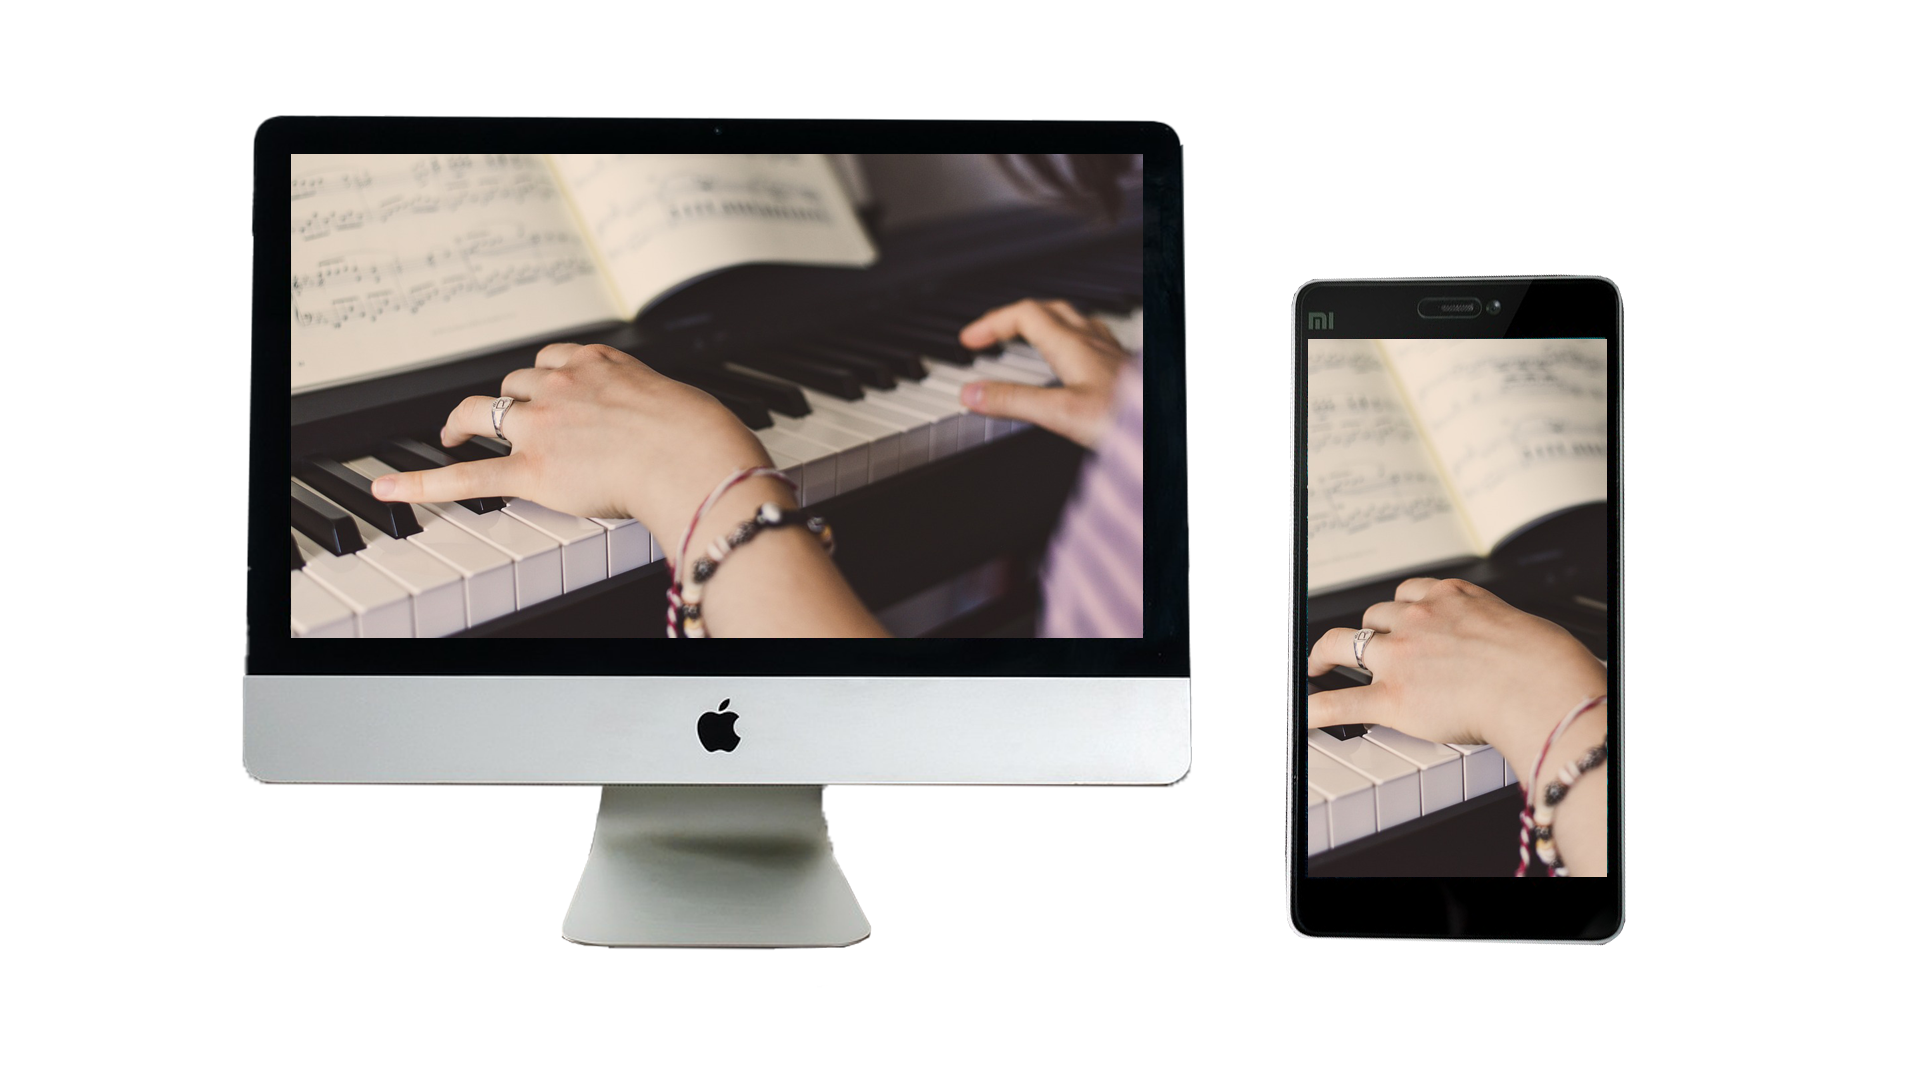
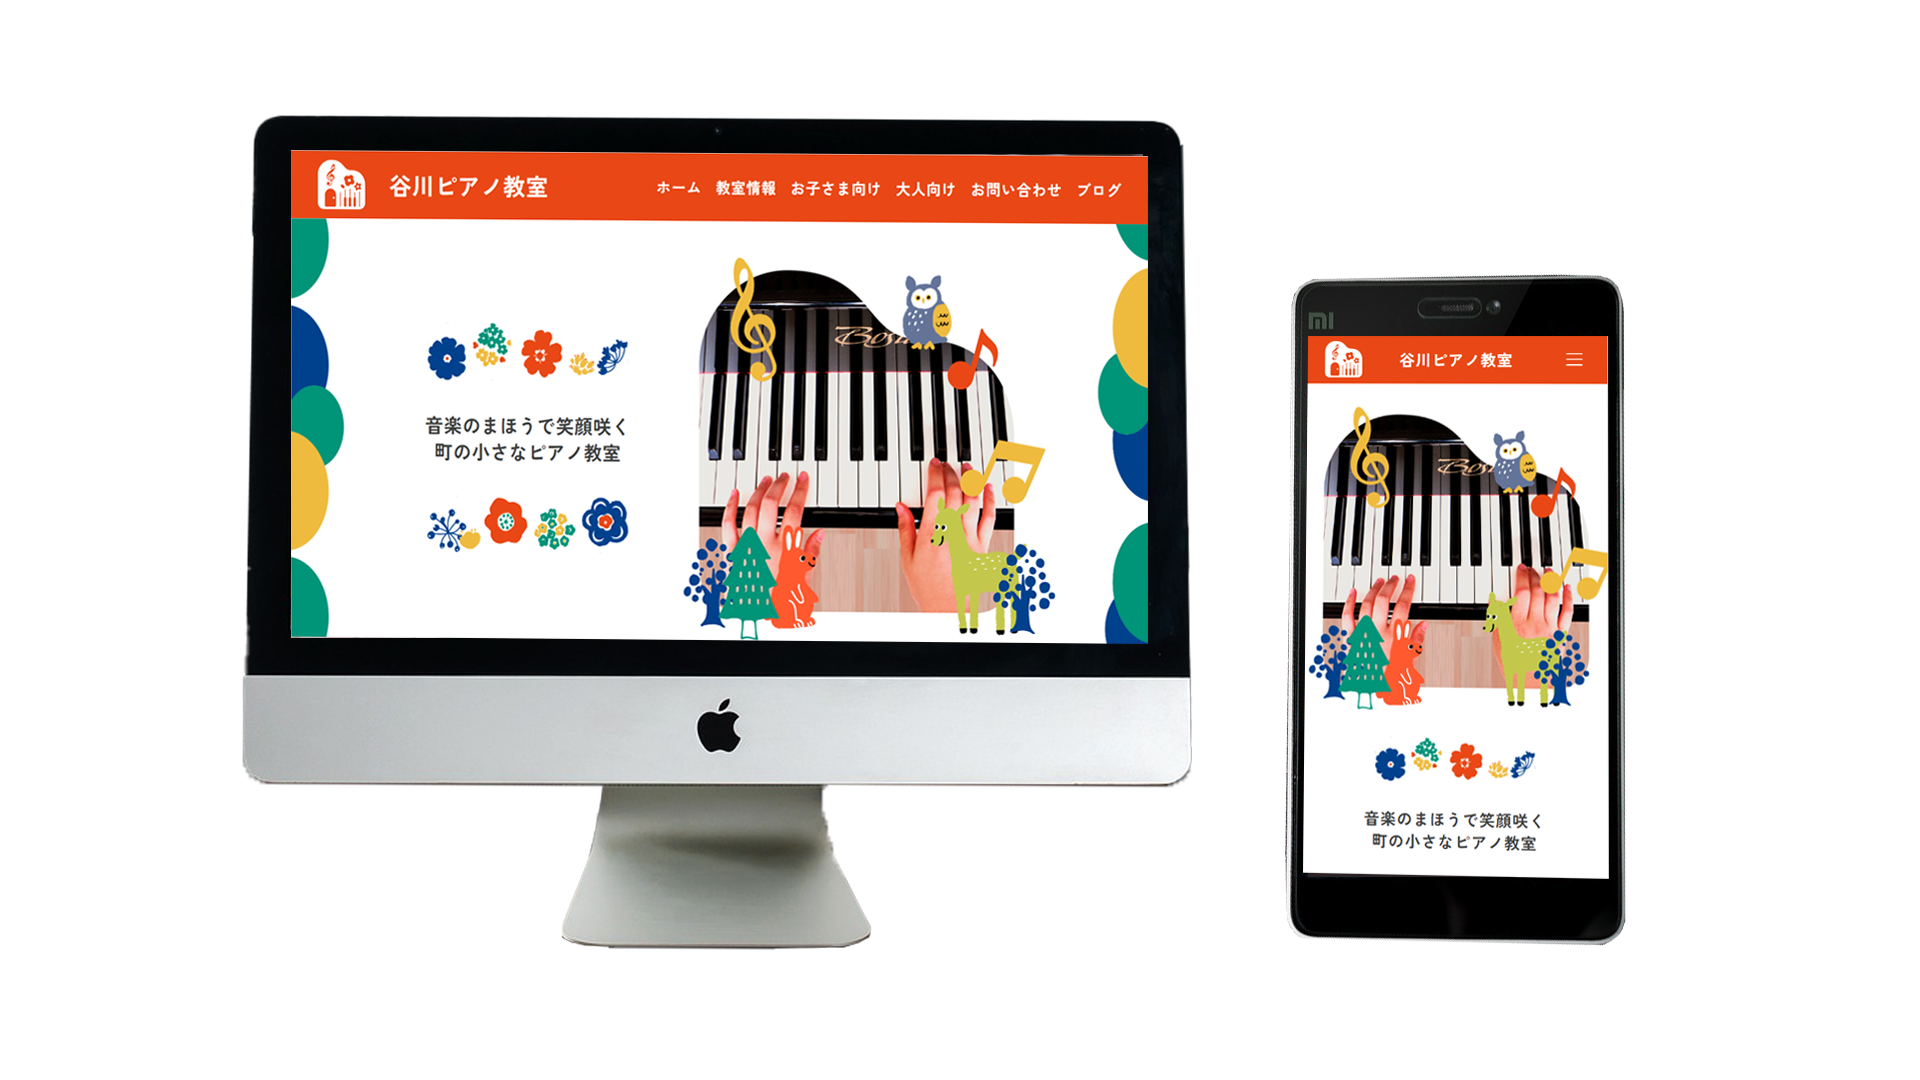
画像差し替え　リンク設定

Changed region(s): [[0.125, 0.1222, 0.625, 0.6111], [0.6562, 0.3056, 0.8438, 0.825]]

diff --git a/work.html b/work.html
@@ -168,9 +168,9 @@
                             </div>
                         </dl>
 
-                        <!-- <div class="more">
-                            <a class="button" href="work.html" target="_blank" rel="noopener noreferrer">VIEW</a>
-                        </div> -->
+                        <div class="more">
+                            <a class="button" href="https://pc-hana.com/45/team-b/" target="_blank" rel="noopener noreferrer">VIEW</a>
+                        </div>
                     </div>
                 </section>
 

diff --git a/index.html b/index.html
@@ -160,7 +160,7 @@
                             <a href="https://preview.studio.site/live/1YWjgj6bOm"><img src="images/acasia59.png" /></a>
                         </div>
                         <div class="swiper-slide">
-                            <img src="images/piano.jpg" />
+                            <a href="https://pc-hana.com/45/team-b/"><img src="images/piano.png" /></a>
                         </div>
                     </div>
                     <div class="swiper-button-next"></div>
